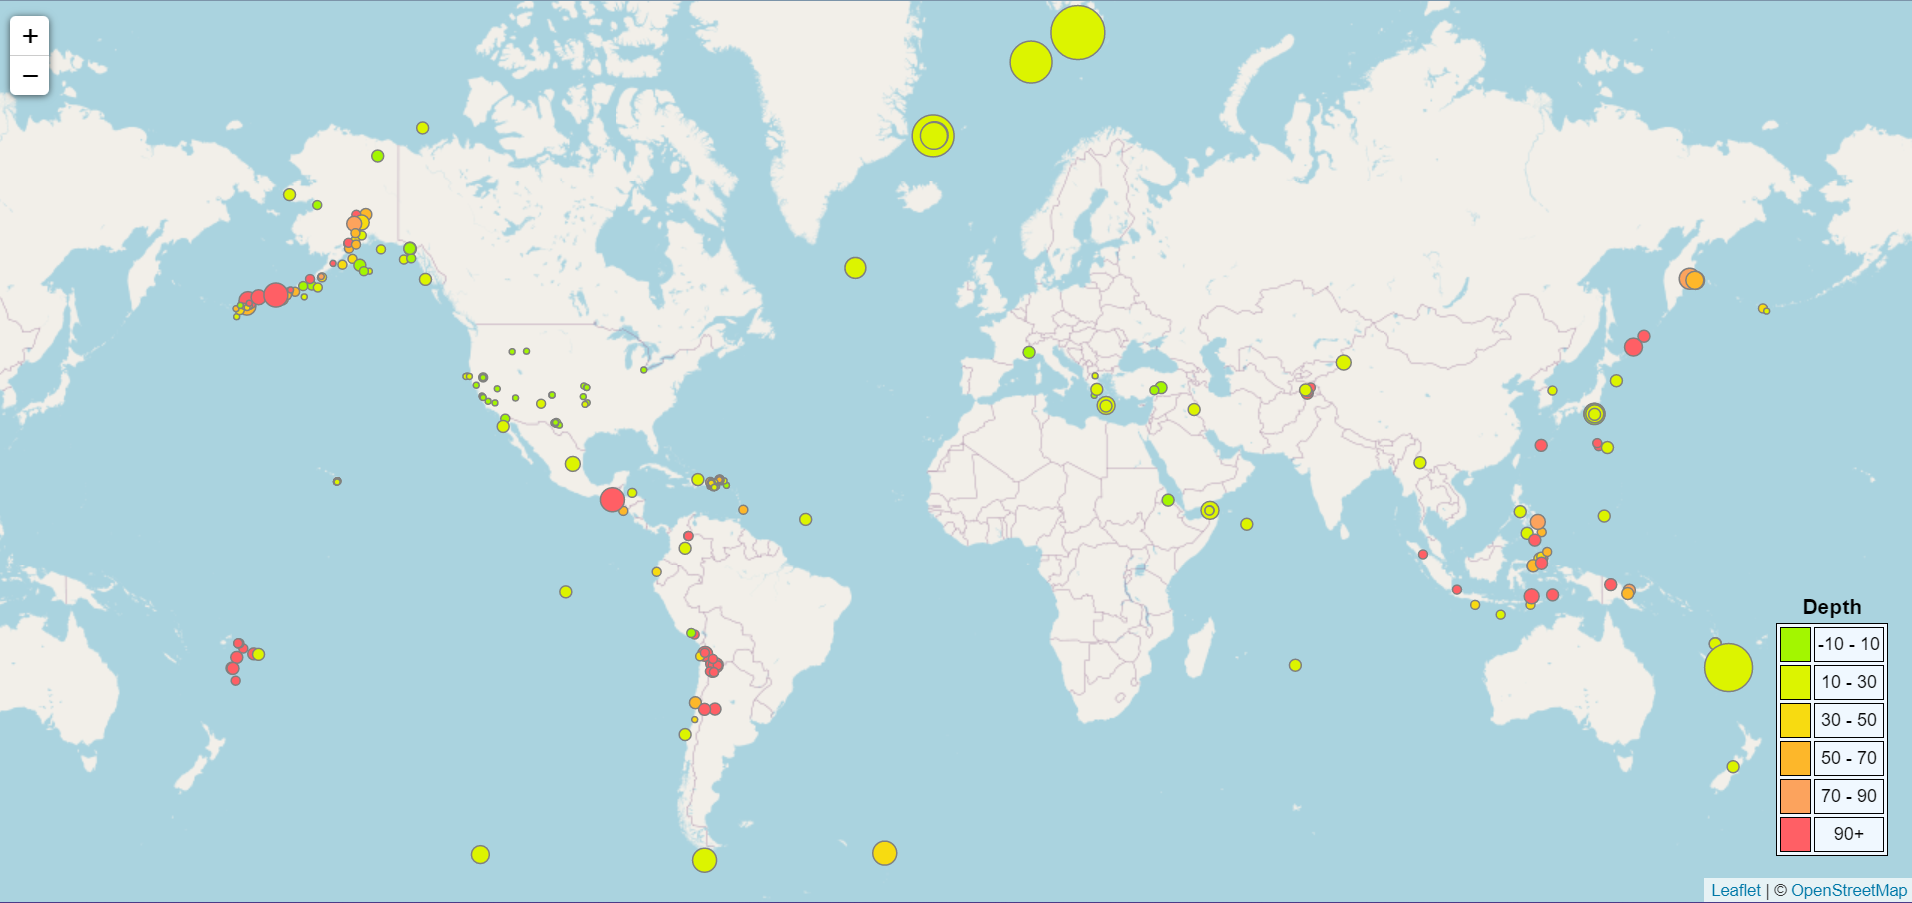
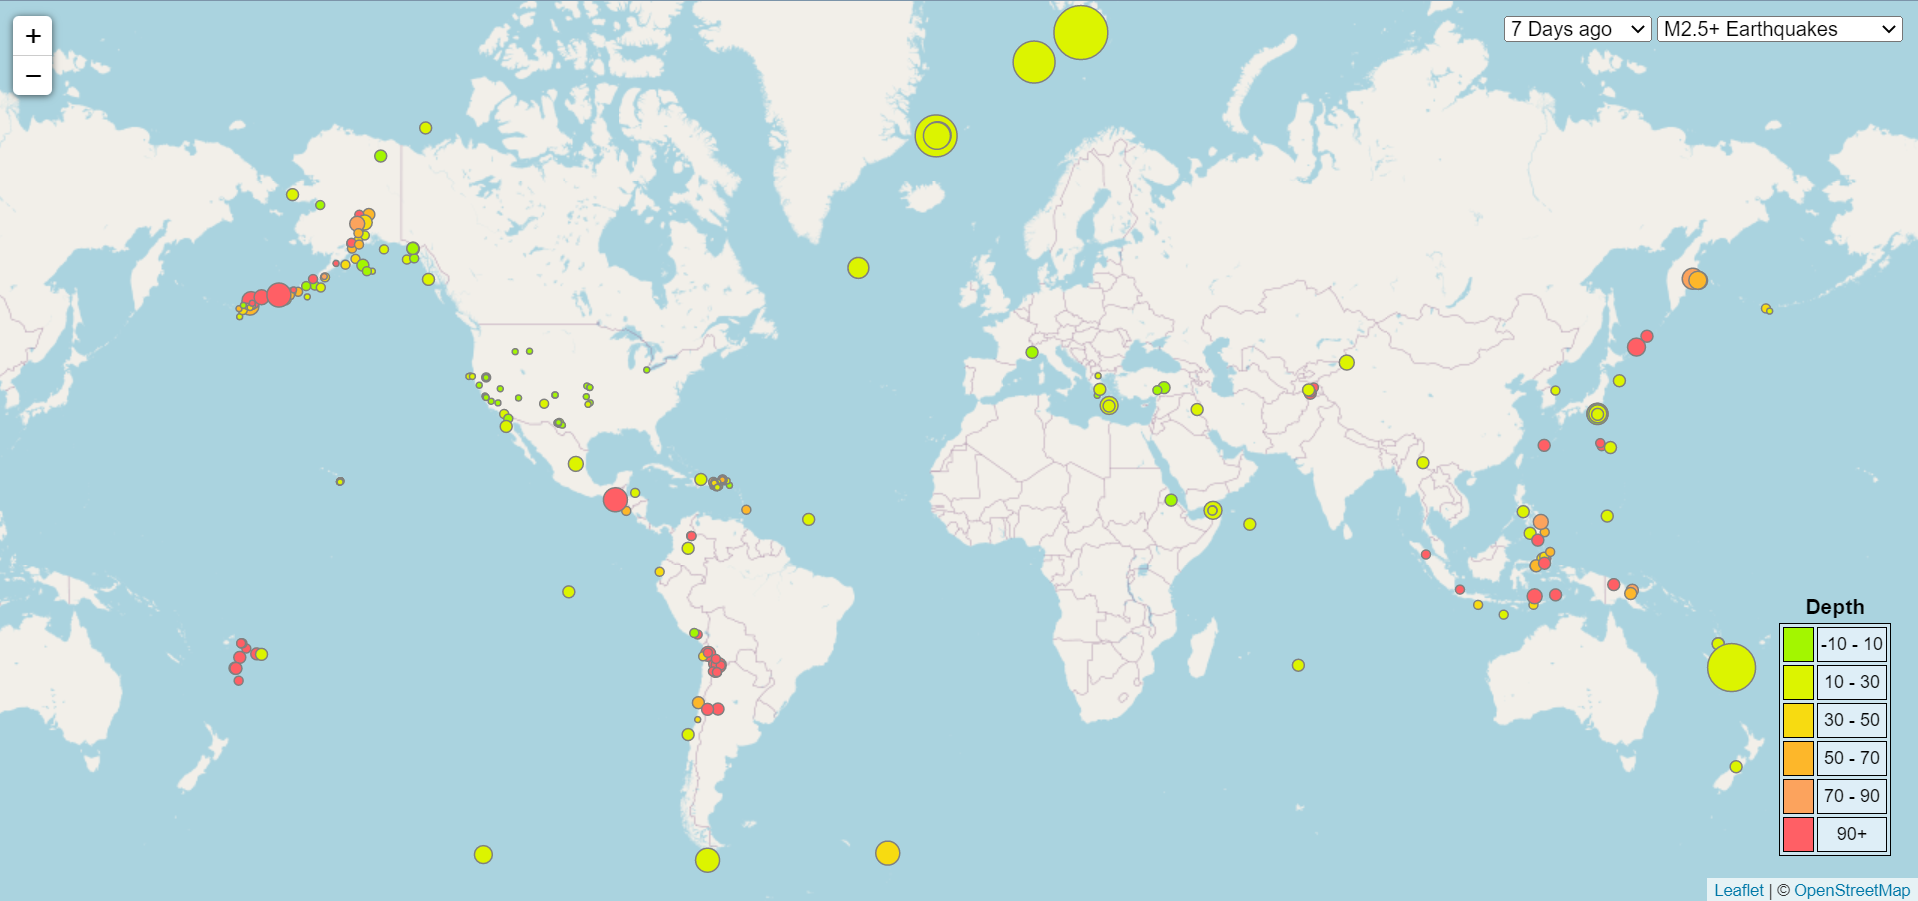
created dropdown menus for magnitude and timeframe

diff --git a/static/js/logic.js b/static/js/logic.js
@@ -4,18 +4,25 @@ var map = L.map("map",{
     zoom:2,
     });
 
-
-L.tileLayer('https://tile.openstreetmap.org/{z}/{x}/{y}.png', {
-    maxZoom: 19,
-    attribution: '&copy; <a href="http://www.openstreetmap.org/copyright">OpenStreetMap</a>'
-}).addTo(map)
+initialize();
 
 
-d3.json("https://earthquake.usgs.gov/earthquakes/feed/v1.0/summary/2.5_week.geojson").then(data=>{
-    console.log(data.features[0])
-    addCircles(data.features);
+function initialize(){
+    L.tileLayer('https://tile.openstreetmap.org/{z}/{x}/{y}.png', {
+        maxZoom: 19,
+        attribution: '&copy; <a href="http://www.openstreetmap.org/copyright">OpenStreetMap</a>'
+    }).addTo(map);
+    fetchCircles("https://earthquake.usgs.gov/earthquakes/feed/v1.0/summary/2.5_week.geojson");
+}
+
+
+function fetchCircles(urlEarthquake){
+d3.json(urlEarthquake).then(data=>{
+    var circles=addCircles(data.features);
+    circles.addTo(map)
+    
 });
-
+};
 
 function controls(map,circles){
     var baseMaps = {
@@ -47,7 +54,7 @@ function addCircles(features){
             <hr>Magnitude: ${feature.properties.mag}<br>
             Depth: ${feature.geometry.coordinates[2]}`));
     });
-    circles.addTo(map)    
+    return circles 
 };
 
 function ranger(data){
@@ -84,6 +91,26 @@ function colorpicker(data){
     };
 }
 
+var selector = L.control({position:"topright"});
+selector.onAdd = function(){
+    var div2 = L.DomUtil.create("div","selector");
+    div2.innerHTML="<select id='timeSelect'>\
+                    <option value='hour'>1 Hour ago</option>\
+                    <option value='day'>1 Day ago</option>\
+                    <option value='week' selected>7 Days ago</option>\
+                    <option value='month'>30 Days ago</option>\
+                    </select>\
+                    <select id='magSelect'>\
+                    <option value='all'>All Earthquakes</option>\
+                    <option value='1.0'>M1.0+ Earthquakes</option>\
+                    <option value='2.5' selected>M2.5+ Earthquakes</option>\
+                    <option value='4.5'>M4.5+ Earthquakes</option>\
+                    <option value='significant'>Significant Earthquakes</option>\
+                    </select>";
+    return div2;
+}
+selector.addTo(map)
+
 
 var legend = L.control({position: 'bottomright'});
 legend.onAdd = function(){
@@ -92,12 +119,24 @@ legend.onAdd = function(){
      // loop through our density intervals and generate a label with a colored square for each interval
     let content= "<h3>Depth</h3><table>";
     for (var i = 0; i < grades.length; i++) {
-        console.log("hello");
         content += "<tr><td style=background-color:" + colorpicker(grades[i]) + "></td><td>"+grades[i]+"</td></tr>";
     };
     content+= "</table>";
-    console.log(content);
     div.innerHTML += content;
     return div;
     };
 legend.addTo(map);
+
+
+
+d3.selectAll("select").on("change",()=>{
+    map.eachLayer((layer) =>{
+        if (!Object.keys(layer).includes("_url")){
+            map.removeLayer(layer);
+        };
+    });
+    let time=d3.select("select#timeSelect").property("value");
+    let mag=d3.select("select#magSelect").property("value");
+    let url=`https://earthquake.usgs.gov/earthquakes/feed/v1.0/summary/${mag}_${time}.geojson`
+    fetchCircles(url);
+});

diff --git a/index.html b/index.html
@@ -20,7 +20,7 @@
 
   <!-- The div that holds our map -->
   <div id="map"></div>
-
+  
   <!-- Leaflet JS -->
   <script src="https://unpkg.com/leaflet@1.6.0/dist/leaflet.js"
     integrity="sha512-gZwIG9x3wUXg2hdXF6+rVkLF/0Vi9U8D2Ntg4Ga5I5BZpVkVxlJWbSQtXPSiUTtC0TjtGOmxa1AJPuV0CPthew=="

diff --git a/static/css/style.css b/static/css/style.css
@@ -17,7 +17,7 @@ div.infoLegend{
 
 table,td{
   border: 1px solid;
-  background-color:aliceblue;
+  background-color:rgba(240, 248, 255, .5);
 }
 
 .infoLegend td {
@@ -28,7 +28,7 @@ table,td{
   text-align:center;
 }
 
-h3{
+h2,h3{
   margin:0;
   text-align:center;
 }

diff --git a/README.md b/README.md
@@ -17,4 +17,12 @@
 - [D3:](https://d3js.org/) For JSON calls to USGS API
 
 ## Results
-![Results](Images/ss.png)
+_2.5+ Magnitude, 7 days_  
+![1 week Results](Images/ss.png)
+
+## Bonus
+Added dropdown options for magnitude and timeframe to take advantage of USGS's different query options, it updates the map every time a new option is selected:  
+![Bonus](Images/bonus.png)  
+
+Bonus example: _All Earthquakes, last 30 days_  
+![All last month](Images/ss2.png) 
